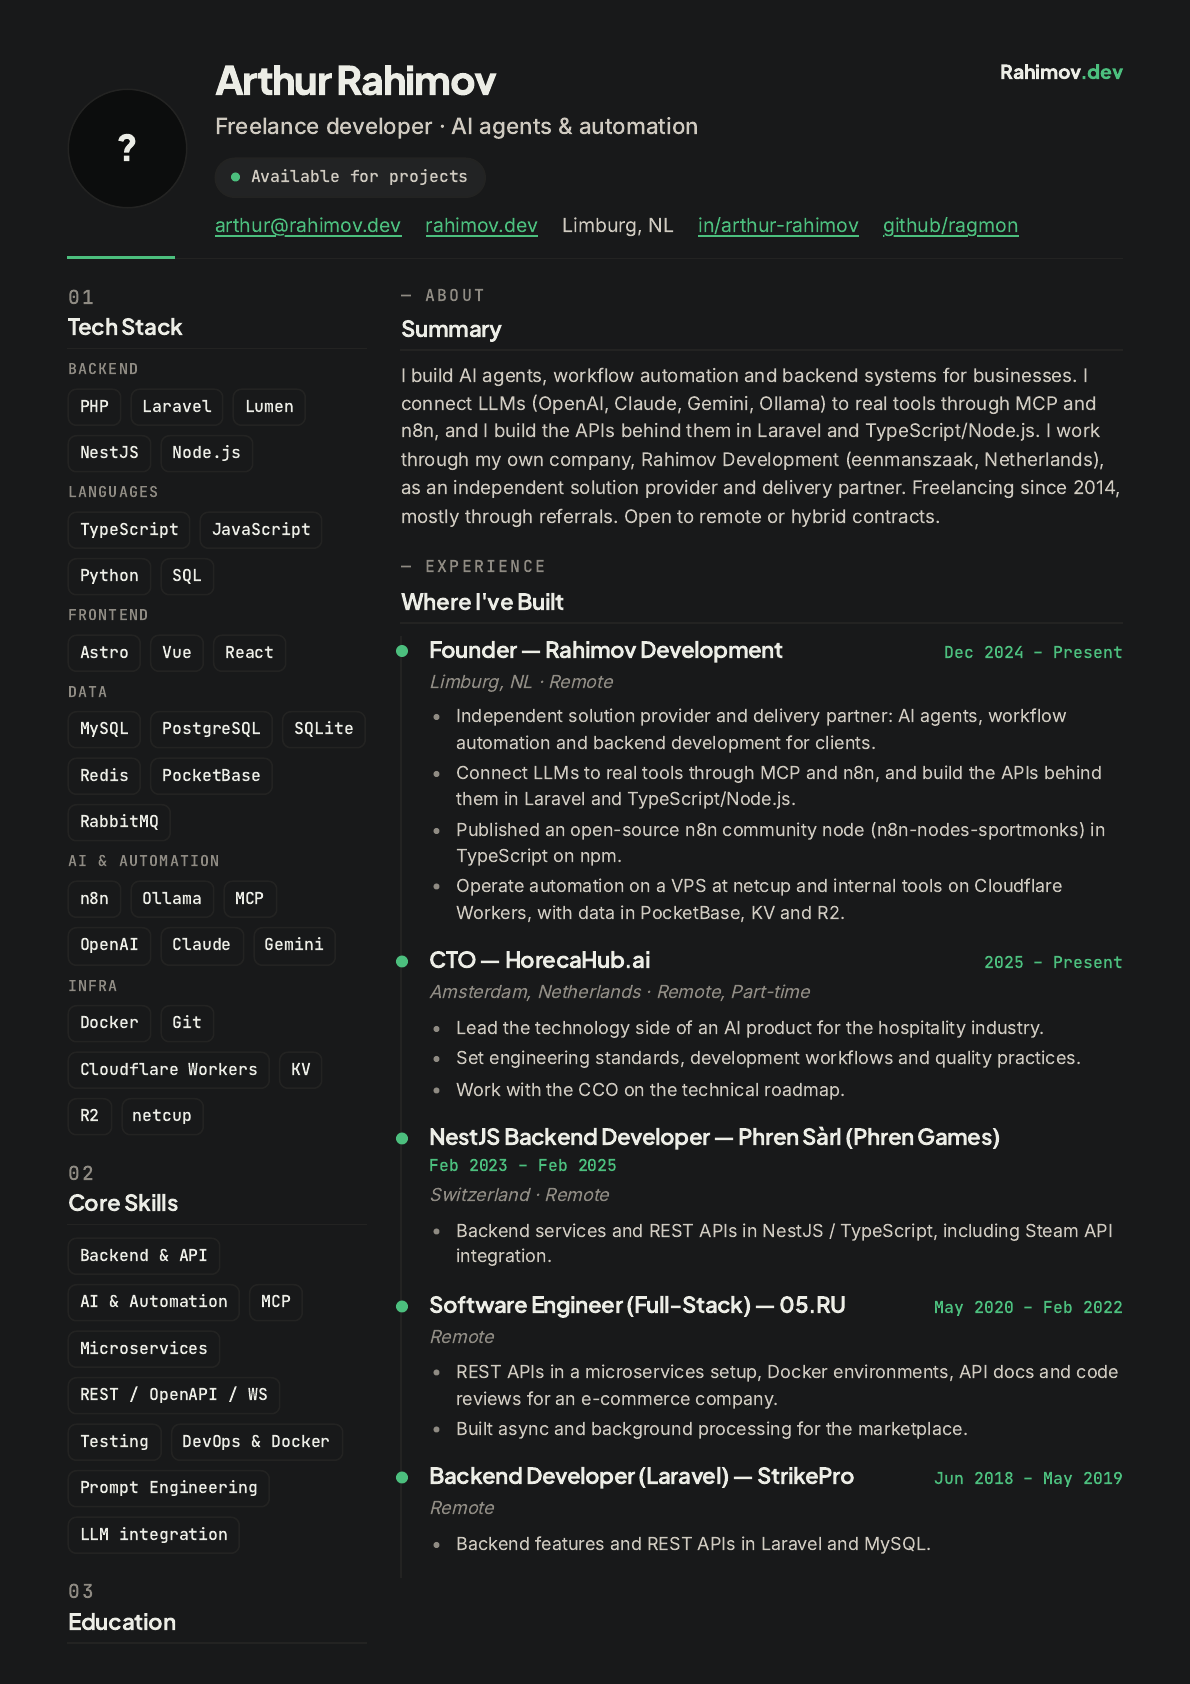
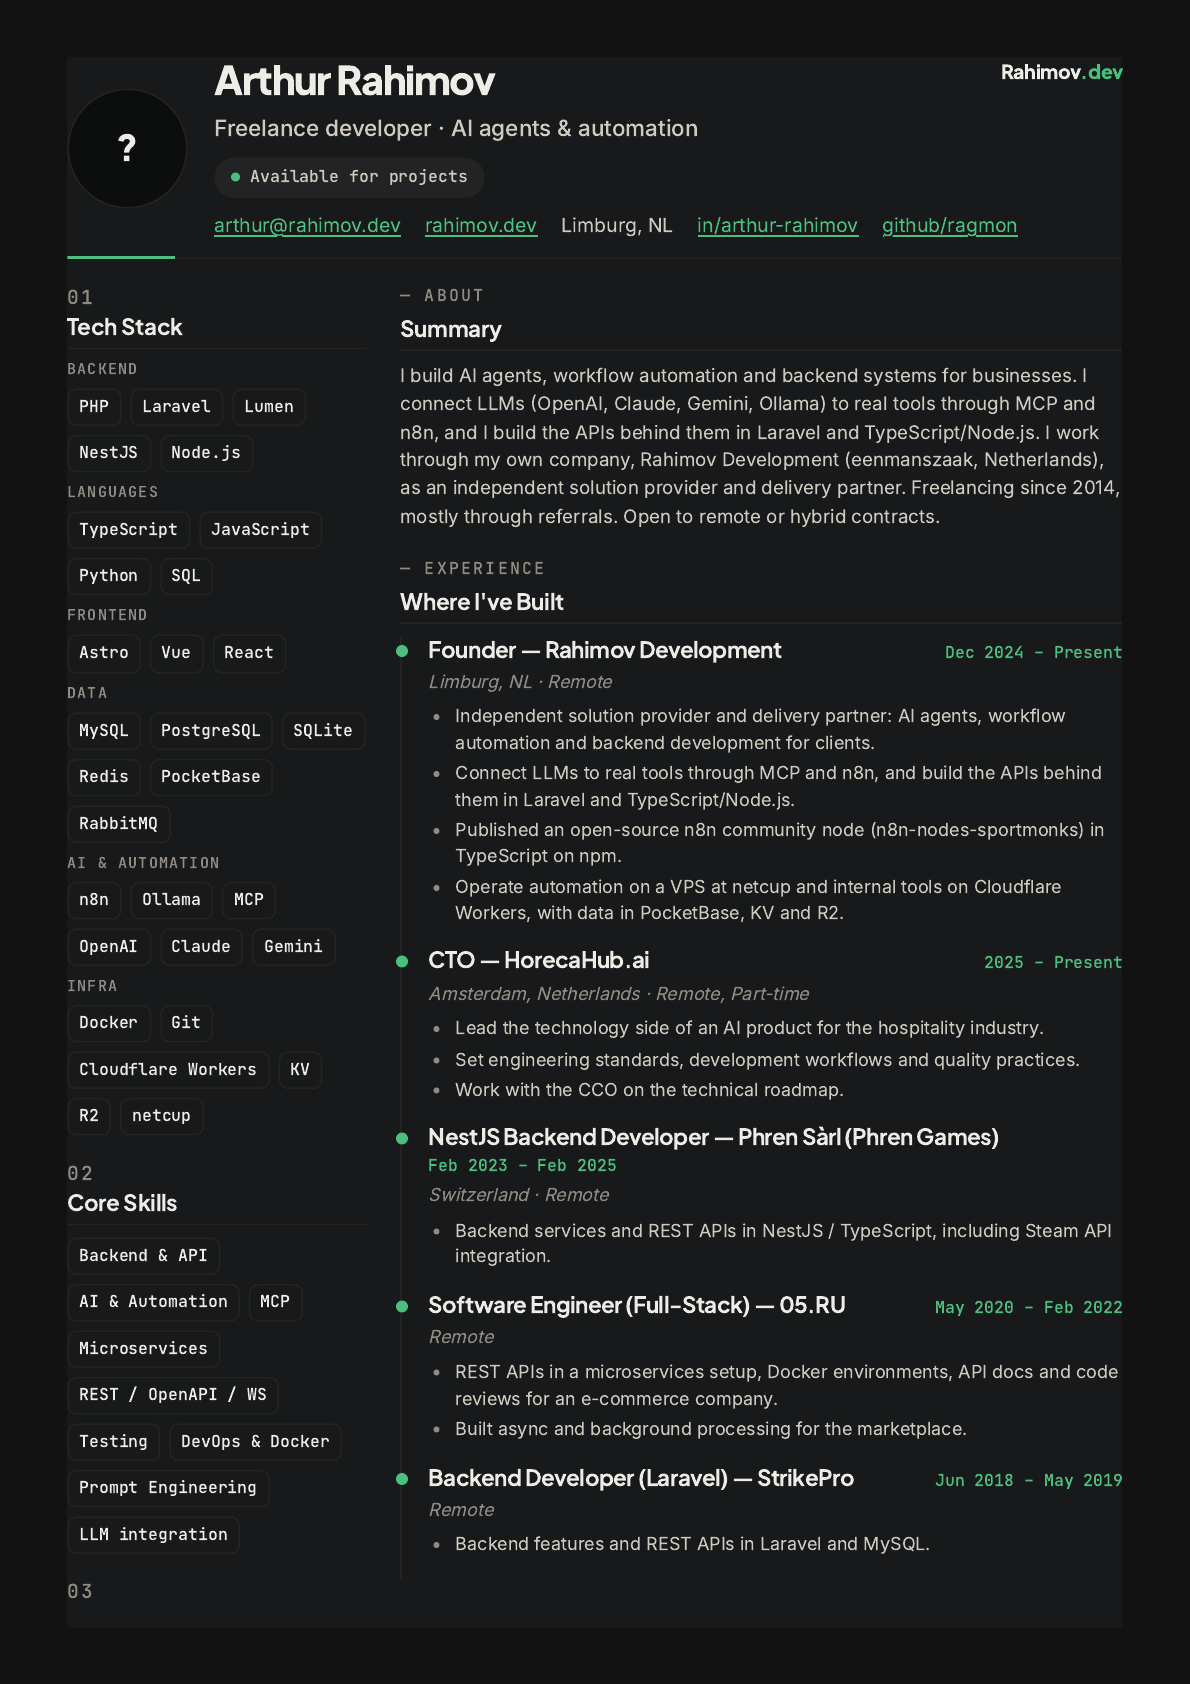
fix: apply A4 page margins on every printed sheet
@page margin: 0 plus padding on .sheet only inset the first and last
edges of the box, so page 2 of the PDF started at the paper edge. Use
@page { margin: 10mm 12mm } instead so both pages keep an inset while
print-color-adjust still paints dark backgrounds.

diff --git a/templates/index.html b/templates/index.html
@@ -571,7 +571,9 @@ footer.doc-footer {
   * { animation: none !important; transition: none !important; }
   .toolbar { display: none !important; }
 
-  @page { size: A4; margin: 0; }
+  /* @page margin applies on every sheet. Padding on .sheet only insets the
+     first and last edges of the box, so later PDF pages would be edgeless. */
+  @page { size: A4; margin: 10mm 12mm; }
   html, body {
     background: var(--bg-elevated) !important;
     margin: 0;
@@ -587,8 +589,7 @@ footer.doc-footer {
     box-shadow: none;
     margin: 0;
     max-width: none;
-    min-height: 100vh;
-    padding: 10mm 12mm 10mm;
+    padding: 0;
     background: var(--bg-elevated);
   }
 
